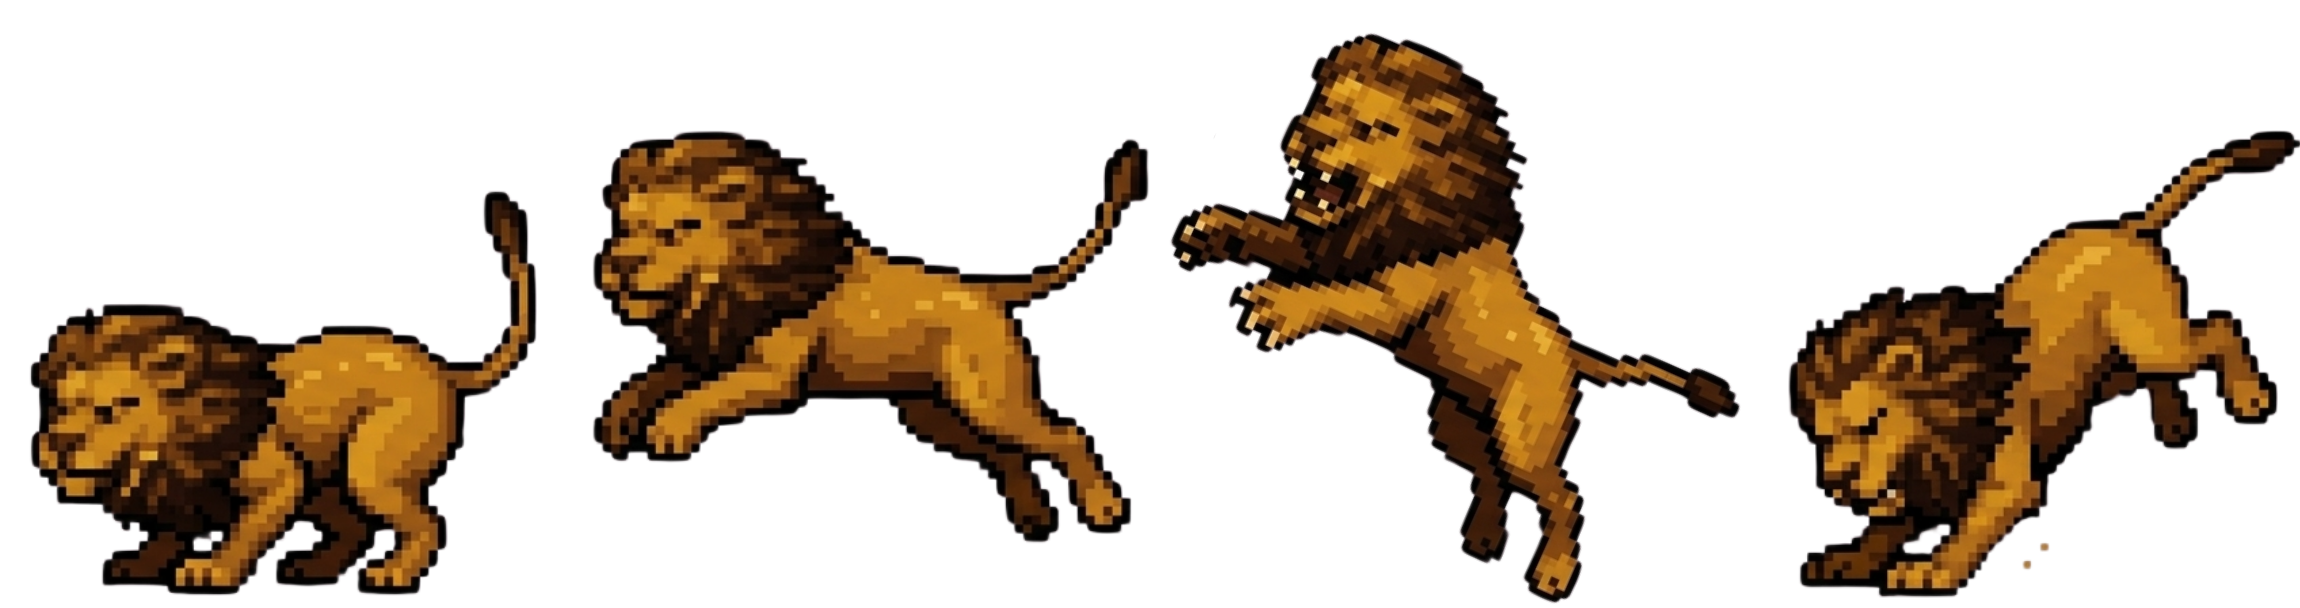
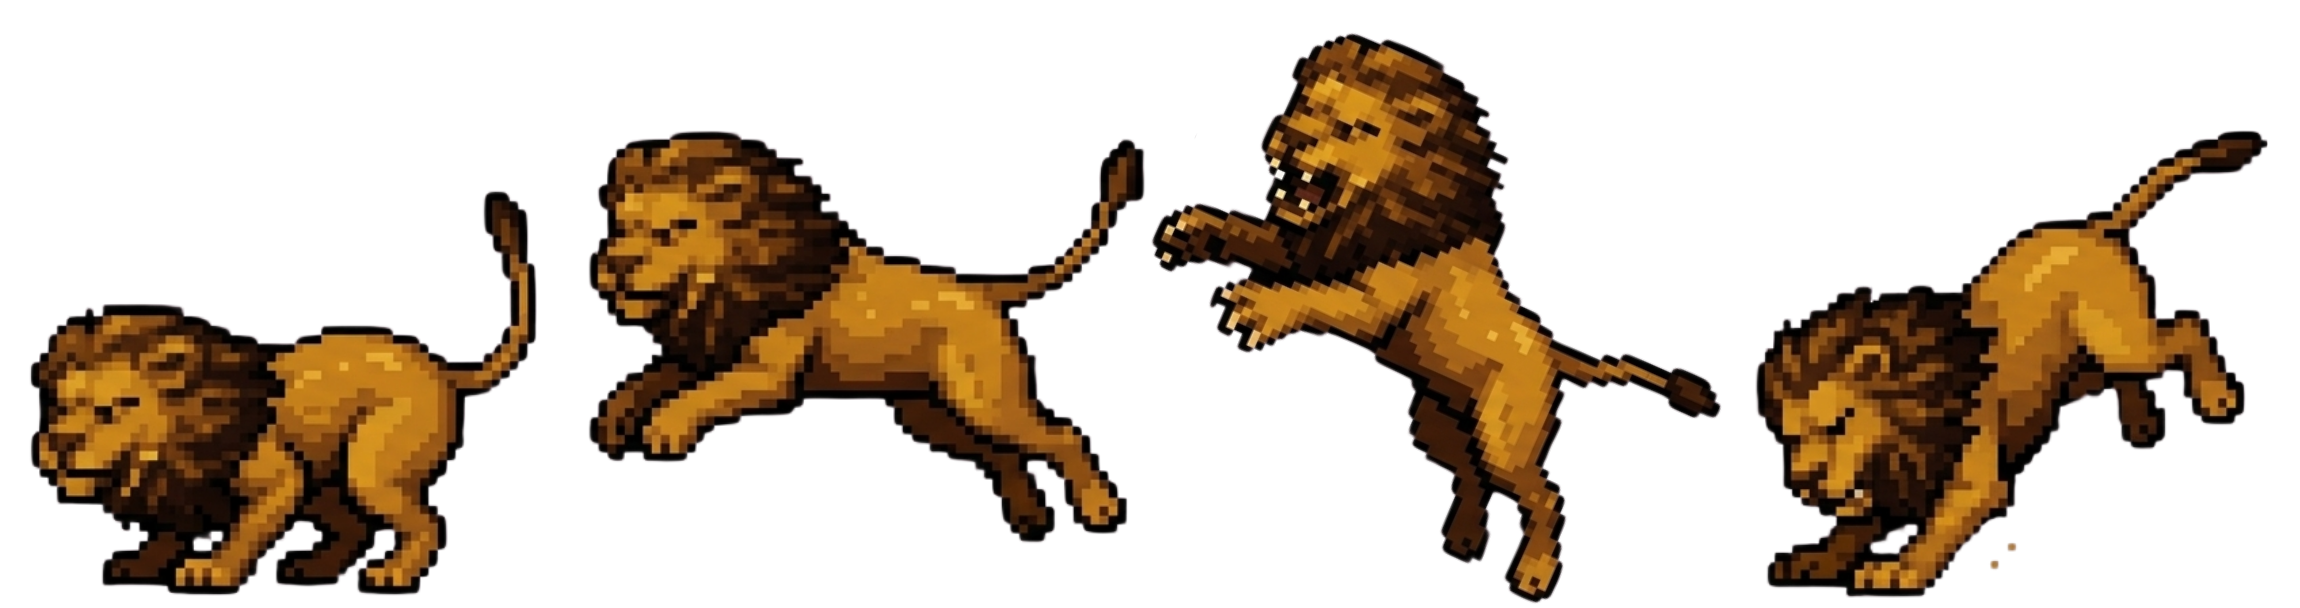
Agrego logica para poder atacar y ser atacado

Changed region(s): [[0.247, 0.0625, 1.0, 1.0], [0.3704, 0.375, 0.4013, 0.4375]]

diff --git a/client/scenes/level1Scene.js b/client/scenes/level1Scene.js
@@ -151,7 +151,7 @@ function drawHealthBar(ctx, x, y, width, height, current, max) { //current from 
     ctx.strokeStyle = "white";
     ctx.lineWidth = 2;
     ctx.strokeRect(x, y, width, height);
-}
+};
 //HEARTS
 function drawHearts(ctx, x, y, current, max) { //current from db and max is const
     const heartValue = 1;
@@ -162,7 +162,7 @@ function drawHearts(ctx, x, y, current, max) { //current from db and max is cons
         ctx.fillStyle = i < filledHearts ? "red" : "gray";
         ctx.fillText("♥", x + i * 50, y);
     }
-}
+};
 //DECK BUTTON
 function drawDeckButton(ctx, button) {
     const left = button.x - button.w / 2;
@@ -177,9 +177,9 @@ function drawDeckButton(ctx, button) {
     ctx.fillStyle = "white";
     ctx.textAlign = "center";
     ctx.fillText("DECK", button.x, button.y);
-}
+};
 
-function checkAttackHits() {
+function attackEnemy() {  //player attack and kill enemy 
     if (!player.playeratack || !player.attackHitbox) //"player is attacking?"
         return;  
     enemies.forEach(enemy => {
@@ -187,10 +187,20 @@ function checkAttackHits() {
             return;  
         if (hitboxOverlap(player.attackHitbox, enemy)) {
             player.hitEnemies.add(enemy);
-            enemy.takeDamage(player.damage)
+            enemy.takeDamage(player.damage);
+        }
+    });
+};
+
+function attackPlayer() {
+    enemies.forEach(enemy => {
+        if (!enemy.attackHitbox) return;
+        if (hitboxOverlap(enemy.attackHitbox, player)) {
+            player.takeDamage(enemy.damage);
         }
     });
 }
+
 
 function update(){
     //Handles movement logic, collisions, etc.
@@ -249,7 +259,10 @@ function update(){
     killedEnemies += totalLenEnemies - aliveLenEnemies;
 
     //check attack hitbox against all active enemies
-    checkAttackHits();
+    attackEnemy();
+    
+    attackPlayer();
+
 
     //camera follows player
     cameraX = player.position.x - canvas.width/2; //camera centers player horizontally
@@ -286,7 +299,7 @@ function drawPlayer(ctx){
 
 function drawEnemies(ctx){
     enemies.forEach(enemy=>{
-       enemy.update();
+       enemy.update(player);
        enemy.draw(ctx); //depends on cameraX
     });
 }

diff --git a/client/objects/EnemyBase.js b/client/objects/EnemyBase.js
@@ -1,5 +1,6 @@
 //Inherits from Animated Object
 import { AnimatedObject } from "../libs/AnimatedObject.js";
+import { hitboxOverlap } from "../libs/game_functions.js";
 class EnemyBase extends AnimatedObject {
 
   constructor(position, hp = 100, damage = 20, speed = 4){
@@ -8,31 +9,35 @@ class EnemyBase extends AnimatedObject {
     this.hp = hp;
     this.damage = damage;
     this.speed = speed;
+    //HITBOX
+    this.HITBOX_WIDTH = 60;  //range
+    this.HITBOX_HEIGHT = 50; 
+    this.HITBOX_OFFSET = 70;  
   }
 
-  update(){
+  update(player){
     this.updateCollider();
     // movement
     this.updateAnimation(20);
     this.attackHitbox = null;
+
+    //attack
+    if (hitboxOverlap(this.collider, player) && player.position.x < this.position.x){ //if the player is near in x and y
+      this.spriteImage = this.spriteAttack;
+      this.updateAnimation(0.2);
+      this.createHitbox();  //hitbox to attack
+    } else {
+      this.spriteImage = this.spriteWalk;
+    }
   }
 
   createHitbox(){
-    if (this.direction === "right") {
-      this.attackHitbox = {
-        x: this.position.x + this.width + this.HITBOX_OFFSET,
-        y: this.position.y + this.height / 2 - this.HITBOX_HEIGHT / 2,
-        width: this.HITBOX_WIDTH,
-        height: this.HITBOX_HEIGHT
-      };
-    } else {
       this.attackHitbox = {
         x: this.position.x - this.HITBOX_WIDTH - this.HITBOX_OFFSET,
-        y: this.position.y + this.height / 2 - this.HITBOX_HEIGHT / 2,
+        y: this.position.y,// 
         width: this.HITBOX_WIDTH,
         height: this.HITBOX_HEIGHT
       };
-    }
   };
 
   takeDamage(hit){
@@ -48,16 +53,14 @@ class EnemyBase extends AnimatedObject {
     super.draw(ctx)
 
      // DEBUG HITBOX (rojo)
-    if (this.attackHitbox) {
-      ctx.strokeStyle = "red";
+    if (this.attackHitbox){
+      ctx.strokeStyle = "blue";
       ctx.strokeRect(
-        this.attackHitbox.x,
-        this.attackHitbox.y,
-        this.attackHitbox.width,
-        this.attackHitbox.height
-      );
+      this.attackHitbox.x,
+      this.attackHitbox.y,
+      this.attackHitbox.width,
+      this.attackHitbox.height);
     }
-
   }
 
 }

diff --git a/client/objects/EnemyLion.js b/client/objects/EnemyLion.js
@@ -4,15 +4,24 @@ import { Rect } from "../libs/Rect.js";
 class EnemyLion extends EnemyBase {  //2300 x 608 px
     constructor(position){
         super(position, 100, 15, 4);
-
-        this.setSprite("./assets/enemy1/walk.png", new Rect (0, 0, 575, 608)); 
         this.sheetCols = 4;
         this.setAnimation(0, 3, true, 200);
         this.scale = 0.8; 
 
+        this.spriteWalk = new Image();
+        this.spriteWalk.src = "./assets/enemy1/walk.png";
+
         //DEATH
-    this.spriteDeath = new Image();
-    this.spriteDeath.src = "./assets/enemy1/death.png";
+        this.spriteDeath = new Image();
+        this.spriteDeath.src = "./assets/enemy1/death.png";
+
+        //ATTACK
+        this.spriteAttack = new Image();
+        this.spriteAttack.src = "./assets/enemy1/attack.png"; 
+
+        //INITIAL
+        this.spriteImage = this.spriteWalk;
+        this.spriteRect = new Rect(0, 0, 575, 608);
     }
 }
 export { EnemyLion };

diff --git a/client/objects/PlayerBase.js b/client/objects/PlayerBase.js
@@ -75,6 +75,15 @@ class PlayerBase extends AnimatedObject {
     }
   };
 
+  takeDamage(hit){
+    this.hp -= hit;
+    if (this.hp <= 0) {
+      this.spriteImage = this.spriteDeath;  //TODO arrerglarla para que salga bien el sprite
+      this.updateAnimation(500);
+      this.hp = 0;
+    }
+  }
+
   draw(ctx){
     super.draw(ctx)
      // DEBUG HITBOX (rojo)
